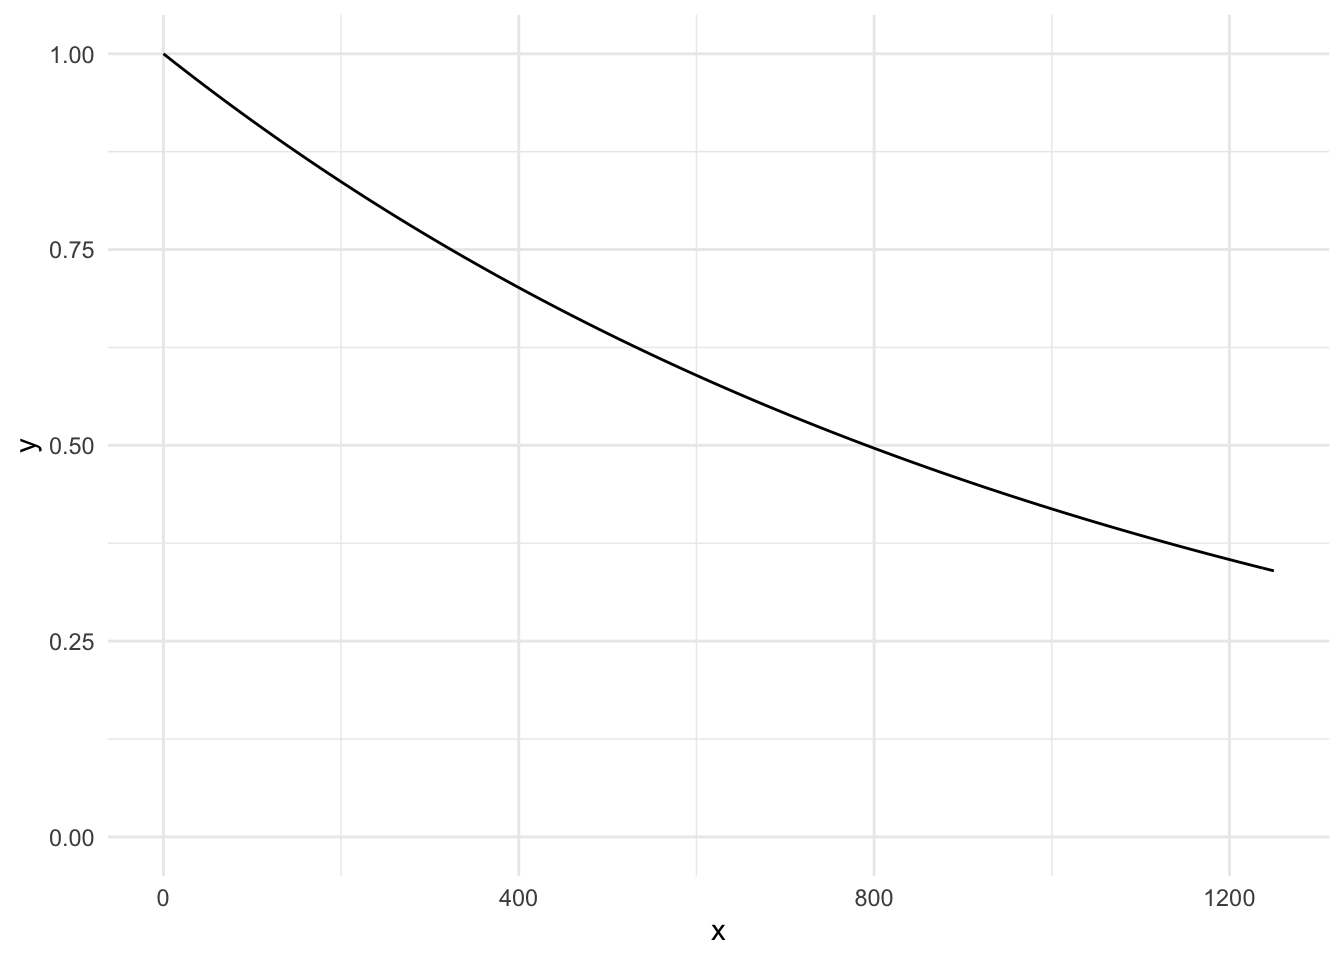
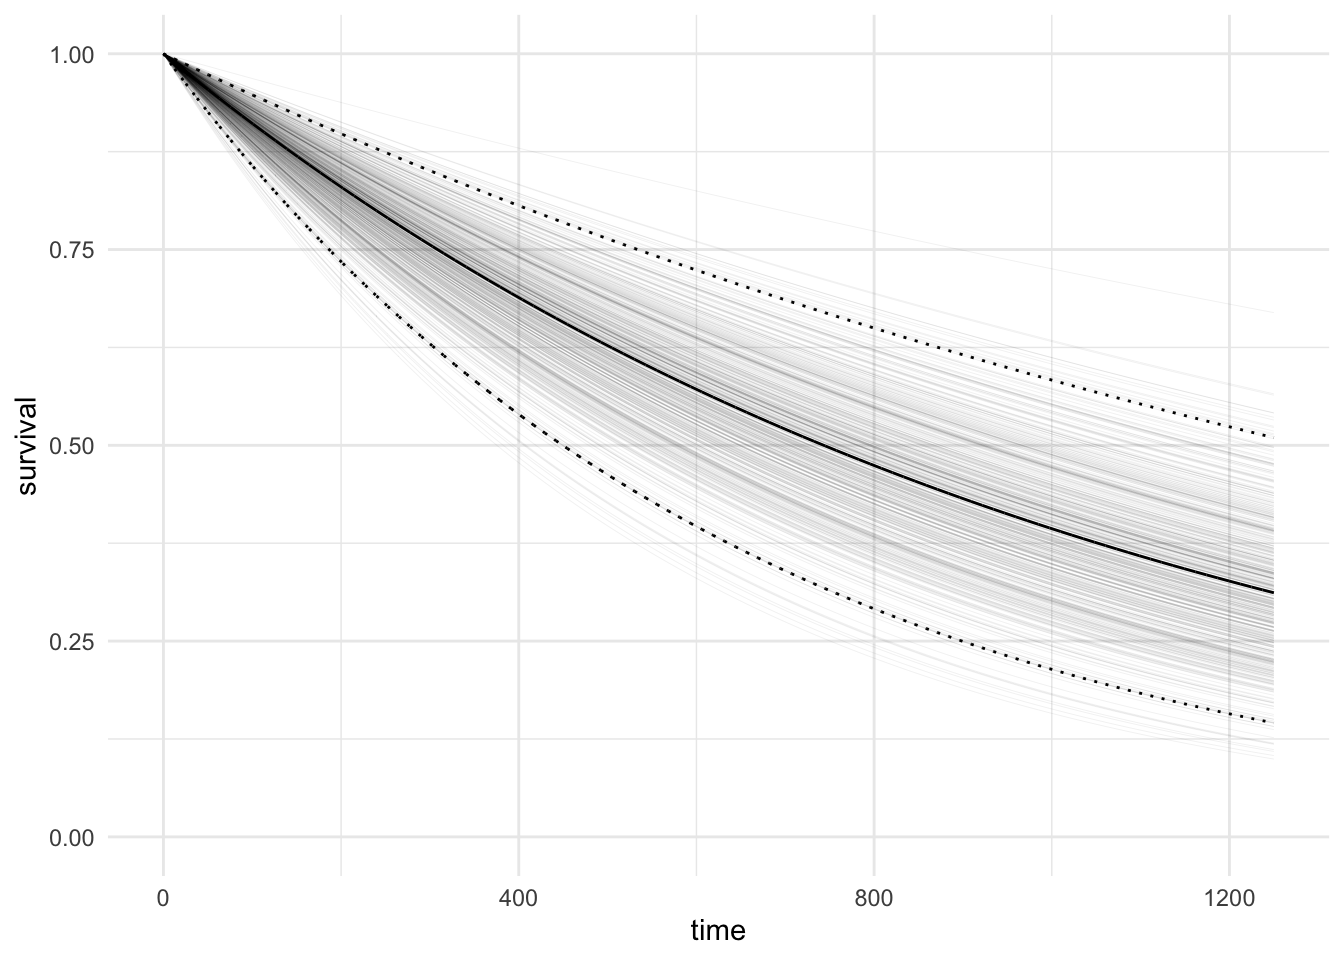
Fix Survival

Changed region(s): [[0.125, 0.0625, 0.9688, 0.75], [0.0, 0.4062, 0.0312, 0.5312], [0.5312, 0.9688, 0.5625, 1.0]]

diff --git a/docs/2019/08/09/bayesian-survival-analysis/index.html b/docs/2019/08/09/bayesian-survival-analysis/index.html
@@ -128,15 +128,8 @@ p(\lambda|y, x) &amp;= \frac{\beta^\alpha}{\Gamma(\alpha)}\lambda^{\alpha-1}e^{-
 <p>The posterior predictive distribution can be calculated as:</p>
 <p><span class="math display">\[f(t|\theta) = \int f(t|\theta)p(\theta|y) d\theta\]</span></p>
 <p>And the predictive survival:</p>
-<p><span class="math display">\[S(t|\theta) = \int S(t|\theta)p(\theta|y) d\theta\]</span></p>
-<p>These can be calculated analytically for the exponential model:</p>
-<p><span class="math display">\[\begin{align}
-S(t|\lambda) &amp;= \int_0^\infty e^{-\lambda t}\frac{(\beta + \sum_{i=1}^ny_i)^{\alpha+\sum_{i=1}^n\nu_i}}{\Gamma(\alpha+\sum_{i=1}^n\nu_i)}\lambda^{(\alpha-1+\sum_{i=1}^n\nu_i)}e^{-\lambda(\beta + \sum_{i=1}^ny_i)} d\lambda, \\
-&amp;= \frac{(\beta + \sum_{i=1}^ny_i)^{\alpha+\sum_{i=1}^n\nu_i}}{\Gamma(\alpha+\sum_{i=1}^n\nu_i)}\int_0^\infty e^{-\lambda(t + \beta + \sum_{i=1}^ny_i)}\lambda^{(\alpha-1+\sum_{i=1}^n\nu_i)}d\lambda, \\
-&amp;= \frac{(\beta + \sum_{i=1}^ny_i)^{\alpha+\sum_{i=1}^n\nu_i}}{\Gamma(\alpha+\sum_{i=1}^n\nu_i)}\frac{\Gamma(\alpha+\sum_{i=1}^n\nu_i)}{(t + \beta + \sum_{i=1}^ny_i)^{\alpha+\sum_{i=1}^n\nu_i}}, \\
-&amp;= \left(\frac{\beta + \sum_{i=1}^ny_i}{t + \beta + \sum_{i=1}^ny_i}\right)^{\alpha+\sum_{i=1}^n\nu_i}.
-\end{align}\]</span></p>
-<p>Now the survival curve can be plotted for the ovarian data:</p>
+<p><span class="math display">\[S(t|\theta) = \int S(t|\theta)p(\theta|y) d\theta\]</span>
+Now the survival curve can be plotted by simulating the rate, <span class="math inline">\(\lambda\)</span> from the posterior distribution and calculating the survival <span class="math inline">\(e^{-\lambda t}\)</span> for discrete values of <span class="math inline">\(t\)</span>.</p>
 <p><img src="/post/bayesian_survival_files/figure-html/unnamed-chunk-3-1.png" width="672" /></p>
 <div id="fitting-the-exponential-model-using-brms" class="section level2">
 <h2>Fitting the exponential model using BRMS</h2>
